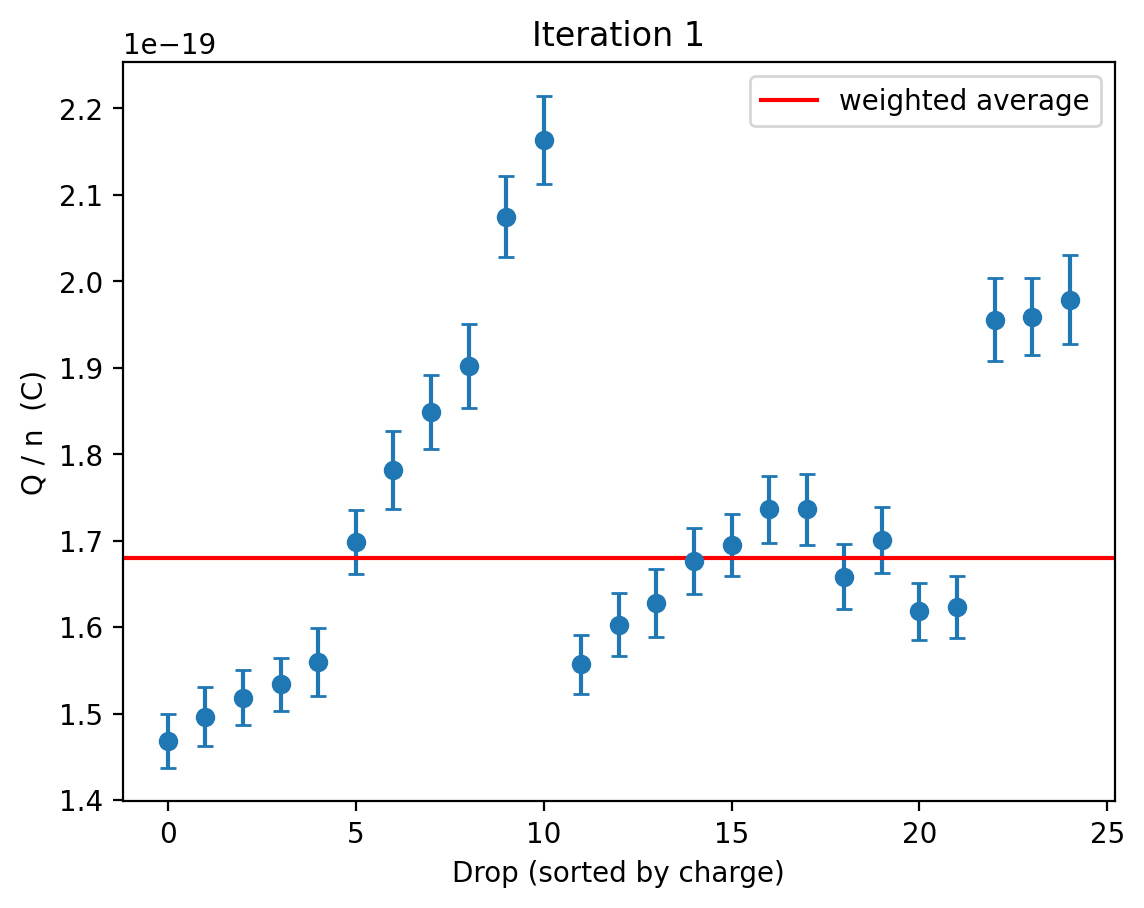
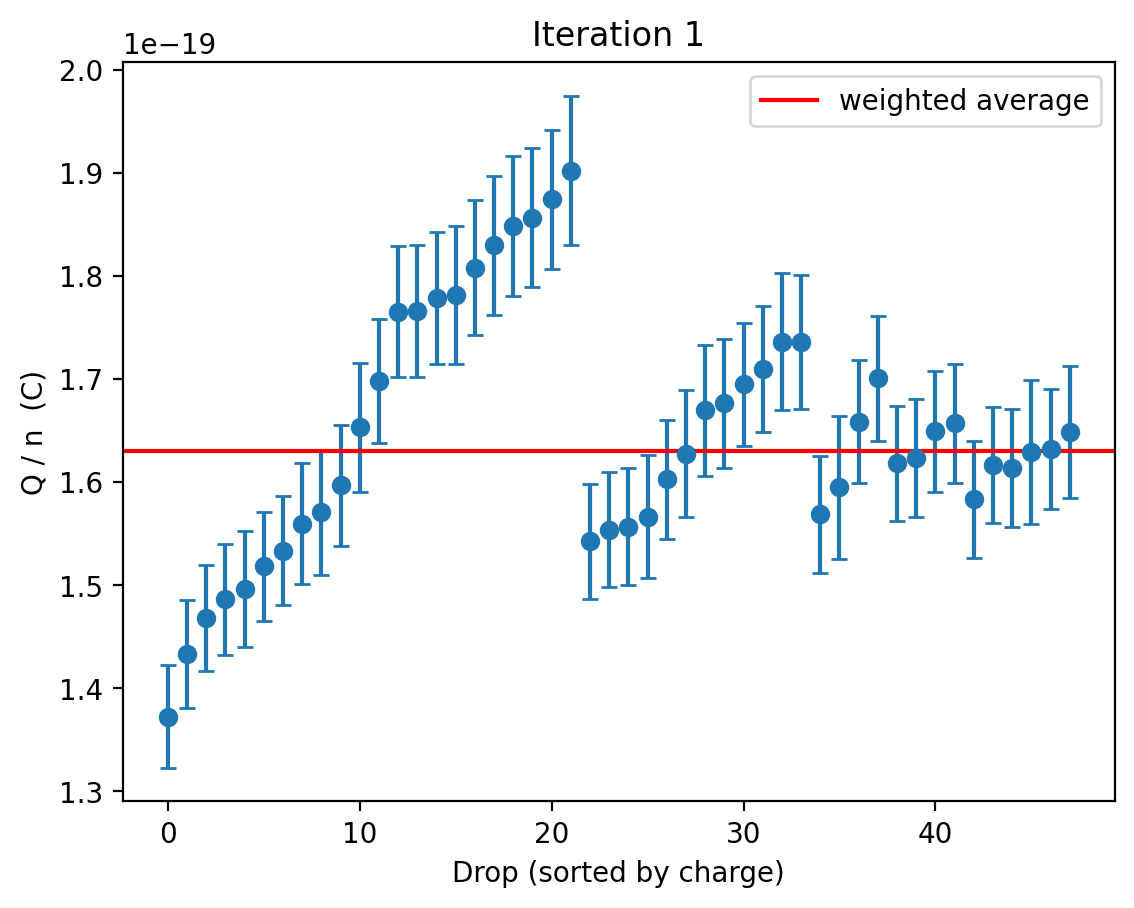
add uncertainties: tracker fitting velocity, sutherland constant, correction constant

diff --git a/python/velocity2charge.py b/python/velocity2charge.py
@@ -6,10 +6,12 @@ import matplotlib.pyplot as plt
 gravity = 9.8008 
 oil_density = 860
 correction_constant = 6.17e-6
+correction_constant_unc = 0.01e-6
 accepted_q = 1.602e-19
 reference_viscosity = 1.716e-5
 reference_temp = 273.15
 sutherland = 110.4
+sutherlandUnc = 1
 
 # read the data
 df = pd.read_csv('../data/dropdata.csv')
@@ -21,27 +23,24 @@ velocity, velocity_unc = df["velocity"], df["velocityUnc"]
 velocityE, velocityE_unc = df["velocityE"], df["velocityEUnc"]
 
 # formulas for calcuations
-def calculate_viscosity(temperature):
+def calculate_viscosity(temperature, sutherland_constant=sutherland):
     temp_kelvin = temperature + 273.15
-    viscosity = reference_viscosity * (temp_kelvin/reference_temp)**(3/2) * (reference_temp + sutherland)/(temp_kelvin + sutherland)
+    viscosity = reference_viscosity * (temp_kelvin/reference_temp)**(3/2) * (reference_temp + sutherland_constant)/(temp_kelvin + sutherland_constant)
     return viscosity
 
-def velocity2radius(velocity, temperature):
-
-    air_viscosity = calculate_viscosity(temperature)
-
+def velocity2radius(velocity, temperature, sutherland_constant=sutherland):
+    air_viscosity = calculate_viscosity(temperature, sutherland_constant)
     radius = np.sqrt((9 * air_viscosity * velocity)/(2 * gravity * oil_density))
     return radius
 
-def velocity2charge(velocity, velocityE, temperature, pressure, capacitor_distance, voltage):
-
-    air_viscosity = calculate_viscosity(temperature)
-    radius = velocity2radius(velocity, temperature)
+def velocity2charge(velocity,velocityE,temperature,pressure,capacitor_distance,voltage,correction_constant_value=correction_constant,sutherland_constant=sutherland,):
+    air_viscosity = calculate_viscosity(temperature, sutherland_constant)
+    radius = velocity2radius(velocity, temperature, sutherland_constant)
 
     term1 = (6 * np.pi * capacitor_distance) / voltage
     term2 = np.sqrt((9 * air_viscosity**3)/(2 * oil_density * gravity))
     term3 = (velocity + velocityE) * np.sqrt(velocity)
-    correction =(1 + correction_constant / (radius * pressure))**(-3/2)
+    correction =(1 + correction_constant_value / (radius * pressure))**(-3/2)
 
     charge = term1 * term2 * term3 * correction
 
@@ -70,6 +69,14 @@ def calculate(df):
         "capacitorDistance": contributions[4],
         "voltage": contributions[5],
     }
+    systematic_contributions["correctionConstant"] = (
+        velocity2charge(*values,correction_constant_value=correction_constant + correction_constant_unc,)
+        - velocity2charge(*values,correction_constant_value=correction_constant - correction_constant_unc,)
+    ) / 2
+    systematic_contributions["sutherlandConstant"] = (
+        velocity2charge(*values,sutherland_constant=sutherland + sutherlandUnc,)
+        - velocity2charge(*values,sutherland_constant=sutherland - sutherlandUnc,)
+    ) / 2
     systematic_variance = sum(value**2 for value in systematic_contributions.values())
 
     df["charge"] = charge

diff --git a/python/datacollection.py b/python/datacollection.py
@@ -7,9 +7,9 @@ Reads in raw data: FPS, Camera Resolution, FOV, Capacitor measurements, Air Pres
 Propagates the uncertainty in the necessary manner, and creates a new CSV (dropdata.csv) which then 
 can be used in velocity2charge.py.
 
-So before running this file, the csv should contain: 
-airPressure, airTemperature,voltage,velocity,velocityE, travelDistance - measured data
-capacitor_total, FOV, FPS, resolution - uncertainties
+So before running this file, the csv should contain measured data:
+airPressure, airTemperature, voltage, velocity, velocityE, travelDistance
+capacitorTotal, capacitorTotalUNC, FOV, FPS, resolution, fitting uncertainty
 '''
 #-=-=-=-=-=-=-=-=-=-=-=-=-=-=-=-=-=-=-=-=-=-=-=-=-=-=-=-=-=-=-=-=-=-=-=-=-=-=-=-=-=-=-=-=-=-=-=-=-=-=-=-=-=-=#
 os.makedirs('../data', exist_ok=True)
@@ -54,7 +54,9 @@ def calc_velocity(df, column):
     time = travel_distance / velocity                      # time the drop took
 
     relative_unc = np.sqrt((position_unc / travel_distance)**2 + (time_unc / time)**2)
-    return velocity * relative_unc
+
+    # fitting uncertainty from tracker software: 2.5%
+    return np.sqrt((velocity * relative_unc)**2 + (velocity * 0.025)**2)
 
 df["capacitorDistanceUnc"] = calc_capacitor(df)
 df["airTemperatureUnc"] = calc_temperature(df)

diff --git a/python/charge2e.py b/python/charge2e.py
@@ -6,7 +6,7 @@ import matplotlib.pyplot as plt
 os.makedirs("../iterations", exist_ok=True)
 
 # initial guess for e, read from the plateau spacing in charges.png - this should be based off of the smallest gap we see between steps
-e_guess = 1.8e-19
+e_guess = 1.65e-19
 
 # charges and uncertainties saved by velocity2charge.py
 df = pd.read_csv("../data/charges.csv")

diff --git a/README.md b/README.md
@@ -39,6 +39,7 @@ One row per drop:
 | `velocity` | velocity (field off) | m/s |
 | `velocityE` | velocity (field on) | m/s |
 | `travelDistance` | distance tracked for the velocity measurement | m |
+| `fitting uncertainty` | tracker fitting uncertainty, applied to both velocities | m/s |
 
 ## Step 2: Add uncertainties (`dropdata.csv`)
 
@@ -48,17 +49,18 @@ The datacollection script copies the measurements into `dropdata.csv` under the 
 
 Capacitor distance, temperature, pressure, and voltage uncertainties are instrument uncertainties.
 
-Velocity uncertainties come from the camera resolution and frame rate. Since v = distance / time, the relative uncertainties add in quadrature:
+Velocity uncertainties combine the camera resolution and frame rate contributions with the tracker fitting uncertainty. Since v = distance / time, the relative measurement uncertainties add in quadrature:
 
 ```
-position_unc = FOV / resolution              # one pixel, in m
+position_unc = 5 * FOV / resolution          # five pixels, in m
 time         = travelDistance / velocity     # time the drop took
 time_unc     = 1 / FPS                       # one frame, in s
 
-velocityUnc  = velocity * sqrt( (position_unc / travelDistance)^2 + (time_unc / time)^2 )
+velocityUnc  = sqrt( (velocity * sqrt((position_unc / travelDistance)^2 + (time_unc / time)^2))^2
+                     + (fitting uncertainty)^2 )
 ```
 
-The same formula is applied to `velocityE` to get `velocityEUnc`. Typical result is about 1% of the velocity. If `velocityUnc` comes out comparable to or larger than `velocity`, check units and that both ratios are squared as a whole.
+The same fitting uncertainty and formula are applied to `velocityE` to get `velocityEUnc`. Typical result is about 1% of the velocity. If `velocityUnc` comes out comparable to or larger than `velocity`, check units and that both ratios are squared as a whole.
 
 ## Step 3: Charge per drop (`velocity2charge.py`)
 
@@ -83,7 +85,7 @@ Q = (6 * pi * d / V) * sqrt( 9 * eta^3 / (2 * rho * g) ) * (v + vE) * sqrt(v) * 
 ```
 
 
-`chargeUnc` is found by error propagation for each input (velocity, velocityE, temperature, pressure, capacitor distance, voltage), take the partial derivative of `Q` with respect to that input, multiply by its uncertainty, and add the contributions in quadrature.
+`chargeUnc` is found by error propagation for each input (velocity, velocityE, temperature, pressure, capacitor distance, voltage, correction constant, and Sutherland constant), take the partial derivative of `Q` with respect to that input, multiply by its uncertainty, and add the contributions in quadrature. The correction-constant uncertainty (`correction_constant_unc`) and Sutherland-constant uncertainty (`sutherlandUnc`) are included with the systematic contributions.
 
 `charges.png` plots the drop charges sorted from smallest to largest. The plateaus in this plot are steps of one electron.
 
